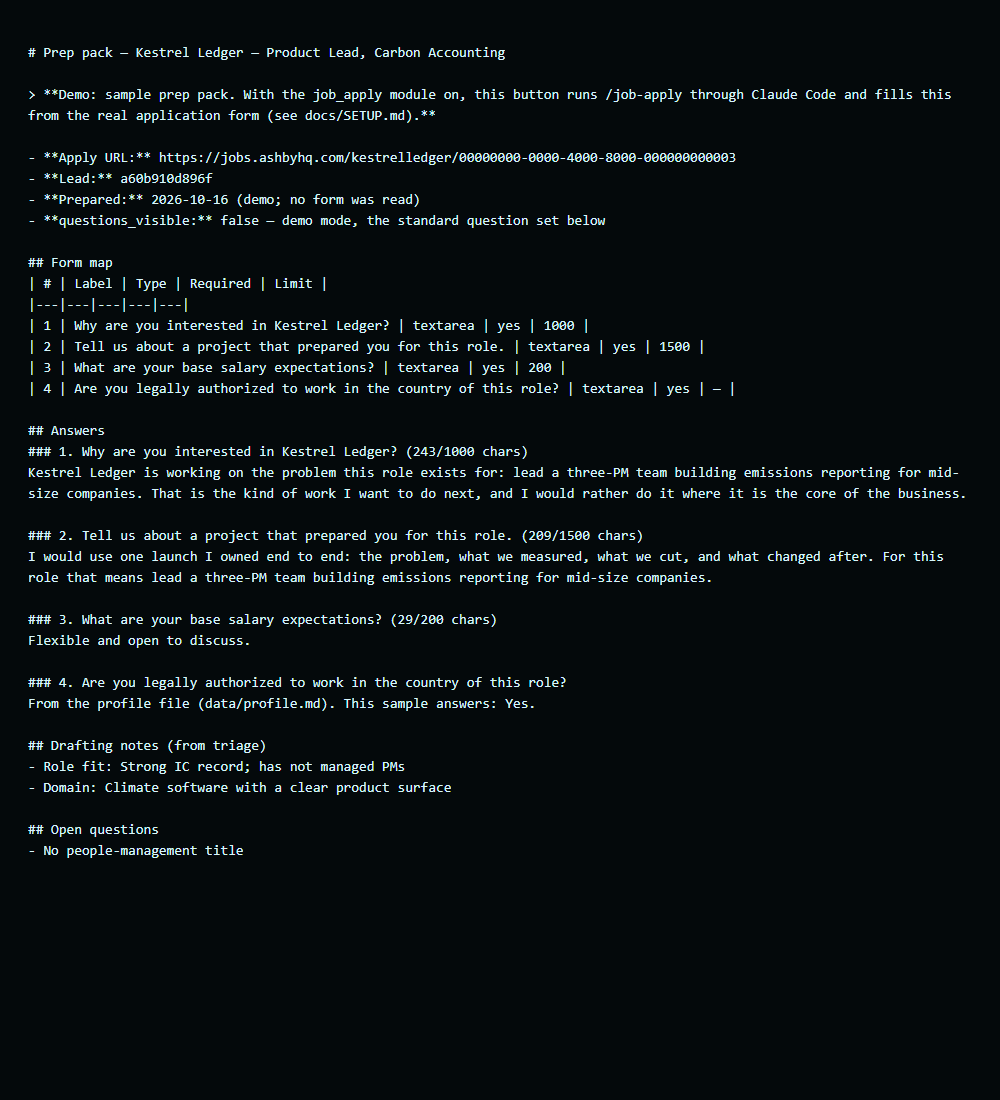
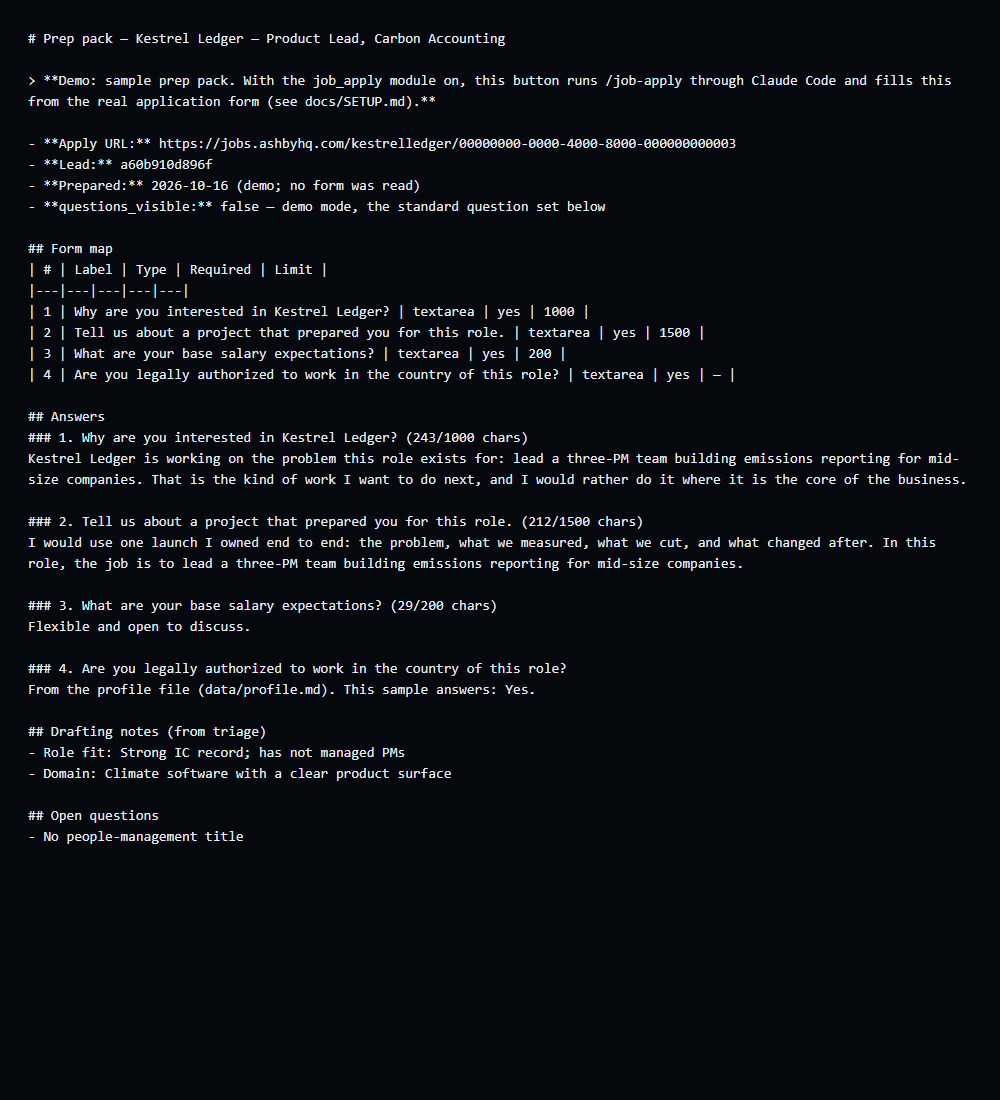
Demo prep pack: read naturally for any job summary

Changed region(s): [[0.031, 0.0309, 0.961, 0.8036]]

diff --git a/board/tests/test_demo.py b/board/tests/test_demo.py
@@ -105,7 +105,7 @@ def test_demo_prep_writes_a_labeled_sample_pack_the_card_can_open(tmp_path):
     assert demo.DEMO_LABEL in text and "Why are you interested in Acme Grid?" in text
     assert "No utility customers" in text
     assert "Acme Grid is working on the problem this role exists for: own the forecasting product." in text
-    assert "For this role that means own the forecasting product." in text
+    assert "In this role, the job is to own the forecasting product." in text
     notes = text.split("## Drafting notes (from triage)")[1].split("## Open questions")[0]
     assert "- Role fit: Shipped two data products" in notes and "- Domain: Grid software" in notes
     answers = text.split("## Answers")[1].split("## Drafting notes")[0]

diff --git a/board/demo.py b/board/demo.py
@@ -64,7 +64,7 @@ def prep_pack_text(lead: dict, now: datetime) -> str:
          f"do next, and I would rather do it where it is the core of the business."),
         ("Tell us about a project that prepared you for this role.", 1500,
          f"I would use one launch I owned end to end: the problem, what we measured, what we cut, and what changed "
-         f"after. For this role that means {work}."),
+         f"after. In this role, the job is to {work}."),
         ("What are your base salary expectations?", 200, "Flexible and open to discuss."),
         ("Are you legally authorized to work in the country of this role?", None,
          "From the profile file (data/profile.md). This sample answers: Yes."),
